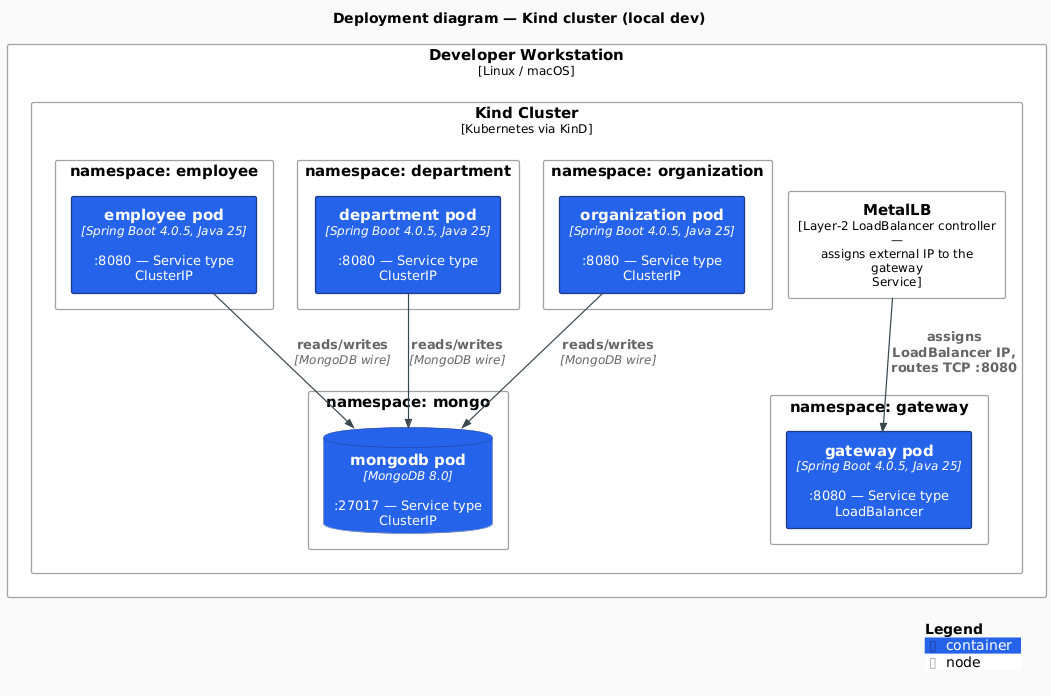
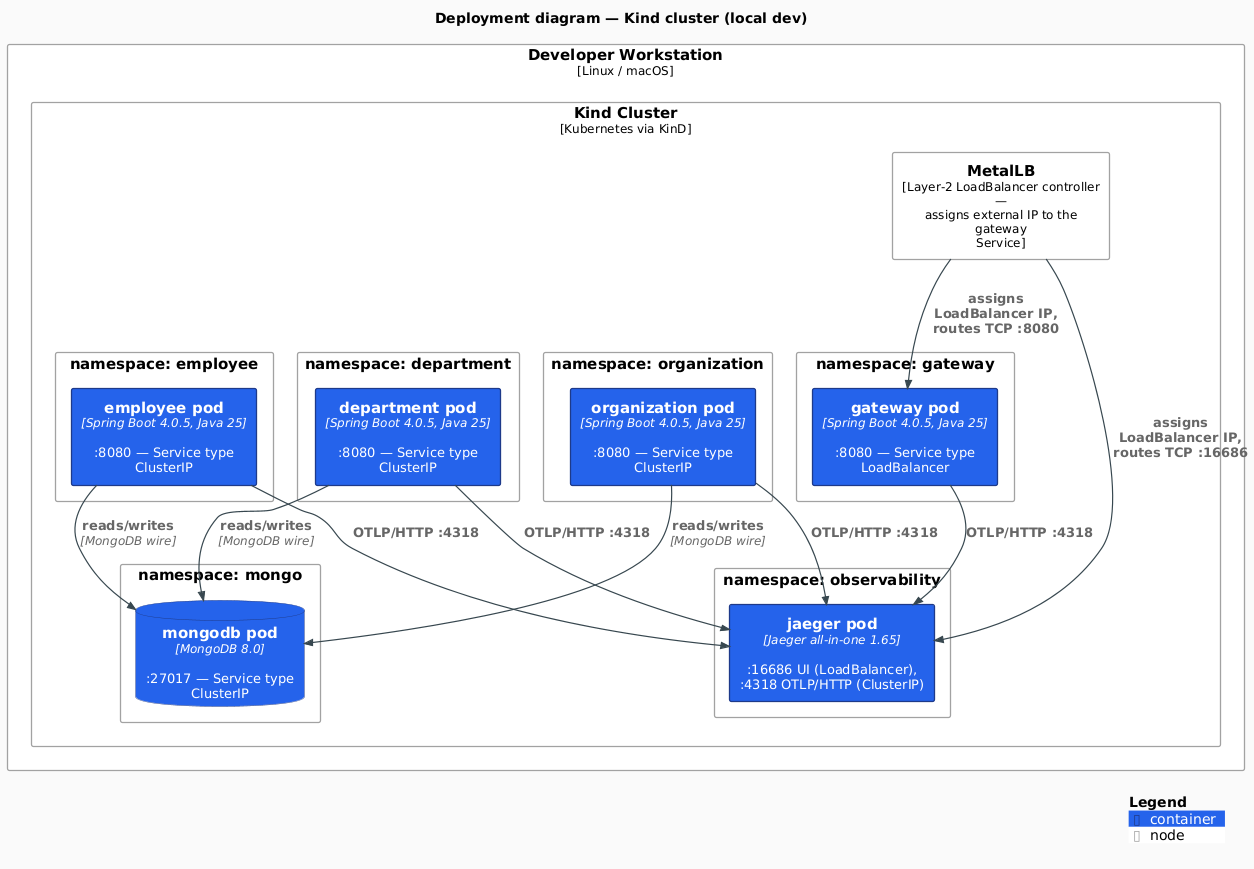
feat(tracing): wire OTLP exporter + in-cluster Jaeger all-in-one
Previously Micrometer Tracing was half-wired: spans generated,
traceparent propagated across RestClient @HttpExchange calls, but
no exporter shipped them anywhere. The README Tech Stack claim
"distributed trace propagation" technically held, but spans were
discarded in-process — trace IDs in MDC logs only, no viewer.

Changes:
  - Add io.opentelemetry:opentelemetry-exporter-otlp (no version
    pin; resolved via Spring Boot BOM to 1.55.0) to all four
    service poms + ignoredUnusedDeclaredDependency entries
  - Configure management.otlp.tracing.endpoint in all four
    ConfigMaps pointing at jaeger.observability.svc.cluster.local:4318
  - New k8s/jaeger-deployment.yaml: jaegertracing/all-in-one:1.65.0
    pinned, non-root UID 10001, COLLECTOR_OTLP_ENABLED, Service of
    type LoadBalancer exposing UI (16686) + OTLP HTTP (4318) +
    OTLP gRPC (4317)
  - Makefile kind-setup: add observability namespace to both
    namespace/serviceaccount loops, apply Jaeger manifest, wait
    for rollout; add jaeger-open target mirroring gateway-open

Architecture diagrams:
  - c4-container: add System_Ext(jaeger) + 4 OTLP Rels
  - c4-deployment: add ns_obs with jaeger_pod, MetalLB Rel on
    :16686 LoadBalancer, 4 OTLP Rels from service pods
  - Both PNGs regenerated via make diagrams

Docs:
  - CLAUDE.md Tech Stack bullet updated
  - README Tech table "Tracing" row, Architecture observability
    bullet, Quick Start + Deployment sections: jaeger-open listed
    alongside gateway-open
[…]

diff --git a/README.md b/README.md
@@ -22,7 +22,7 @@ Source: [`docs/diagrams/c4-container.puml`](docs/diagrams/c4-container.puml) —
 | Service Discovery | Spring Cloud Kubernetes | Uses the Kubernetes API as the registry — no Eureka/Consul to operate; `all-namespaces: true` enables cross-namespace discovery |
 | Database | MongoDB 8.0 (official `mongo` image, non-root UID 999, version-pinned) | Document model fits the Organization → Department → Employee aggregates without a migration toolchain; official image pinned for Renovate tracking |
 | API Docs | SpringDoc OpenAPI 3.0 / Swagger UI | Auto-generates OpenAPI 3 from `@RestController` annotations; gateway surfaces a unified Swagger UI across all services |
-| Tracing | Micrometer Tracing (OpenTelemetry bridge) | Tracer-agnostic abstraction; bridges to OTel collector without locking onto Zipkin or Brave directly |
+| Tracing | Micrometer Tracing → OpenTelemetry OTLP → Jaeger all-in-one | Spans propagate across all four services via W3C `traceparent`, export over OTLP/HTTP to in-cluster Jaeger (`observability` namespace); UI via `make jaeger-open` |
 | Testing | Testcontainers (integration), Kind e2e | Real MongoDB per test class (no mocking) + real cluster for e2e — catches schema drift and manifest bugs that in-process tests miss |
 | Containers | Eclipse Temurin 25, multi-arch (amd64+arm64) | Temurin is the reference OpenJDK build; multi-arch covers Apple Silicon dev + x86 servers from a single manifest |
 | Local K8s | Kind + MetalLB | Kind runs a real Kubernetes API in Docker — higher fidelity than Minikube; MetalLB gives LoadBalancer Services a reachable IP on localhost |
@@ -33,9 +33,10 @@ Source: [`docs/diagrams/c4-container.puml`](docs/diagrams/c4-container.puml) —
 
 ```bash
 make deps          # check required tools
-make kind-up       # full cluster lifecycle: Kind + MetalLB + MongoDB + 4 services
+make kind-up       # full cluster lifecycle: Kind + MetalLB + MongoDB + Jaeger + 4 services
 make e2e-test      # run end-to-end API tests
 make gateway-open  # open Swagger UI in browser
+make jaeger-open   # open Jaeger tracing UI in browser
 make kind-down     # tear everything down when finished
 ```
 
@@ -76,7 +77,7 @@ This architecture follows Cloud Native best practices and [The 12 Factor App](ht
 - **Inter-service communication** via RestClient (`@HttpExchange`)
 - **API documentation** exposed via Swagger UI
 - **Docker images** built with layered JARs using the Spring Boot plugin
-- **Observability** via Prometheus exporters
+- **Observability** via Prometheus exporters + distributed tracing (Micrometer → OTLP → Jaeger all-in-one)
 - **Static analysis** via google-java-format, Checkstyle, hadolint, gitleaks, actionlint, Trivy (filesystem + K8s config), and PlantUML diagram drift check — all wired into the `make static-check` composite gate
 
 ### Service Communication
@@ -129,13 +130,14 @@ See the full [Reference Architecture](docs/reference-architecture.md) for the De
 Local Kubernetes deployment is driven by the Makefile — `make kind-up` spins up the full stack in one command:
 
 ```bash
-make kind-up       # Kind cluster + MetalLB + MongoDB + 4 services (~2–3 min)
+make kind-up       # Kind cluster + MetalLB + MongoDB + Jaeger + 4 services (~2–3 min)
 make gateway-url   # print LoadBalancer IP assigned by MetalLB
 make gateway-open  # open Swagger UI in a browser
+make jaeger-open   # open Jaeger tracing UI in a browser
 make kind-down     # tear everything down
 ```
 
-Under the hood `kind-up` chains `kind-create` (cluster + MetalLB) → `kind-setup` (namespaces, RBAC, MongoDB) → `image-build` → `image-load` → `kind-deploy` (rollout all 4 services). See [Kind Cluster targets](#kind-cluster) for running each step in isolation during iterative development.
+Under the hood `kind-up` chains `kind-create` (cluster + MetalLB) → `kind-setup` (namespaces, RBAC, MongoDB, Jaeger) → `image-build` → `image-load` → `kind-deploy` (rollout all 4 services). See [Kind Cluster targets](#kind-cluster) for running each step in isolation during iterative development.
 
 Production deployment is out of scope for this reference — the manifests under [`k8s/`](k8s/) are tuned for a single-node local Kind cluster. See [`docs/reference-architecture.md`](docs/reference-architecture.md) for the annotated manifests and the rationale behind each ConfigMap / Secret / RBAC binding.
 

diff --git a/docs/reference-architecture.md b/docs/reference-architecture.md
@@ -499,18 +499,22 @@ management.metrics.enable.all: "true"
 
 Endpoints: `/actuator/metrics` and `/actuator/prometheus`.
 
-## Distributed Tracing with Micrometer
+## Distributed Tracing with Micrometer + Jaeger
 
 Micrometer Tracing (replacing Spring Cloud Sleuth) provides distributed trace
 context propagation across services. Trace IDs are automatically propagated
 via HTTP headers through RestClient and Spring MVC.
 
-Dependency (managed by Spring Boot BOM):
+Dependencies (managed by Spring Boot BOM):
 
 ```xml
 <dependency>
     <groupId>io.micrometer</groupId>
     <artifactId>micrometer-tracing-bridge-otel</artifactId>
+</dependency>
+<dependency>
+    <groupId>io.opentelemetry</groupId>
+    <artifactId>opentelemetry-exporter-otlp</artifactId>
 </dependency>
 ```
 
@@ -519,20 +523,22 @@ rather than the legacy Brave / Zipkin bridge. This is the industry-standard
 target for observability consolidation and works with any OTLP-compatible
 backend (Tempo, Jaeger, Honeycomb, Datadog, …).
 
-No tracing backend is currently wired up — spans are created in-process and
-discarded. To export them, add an OTLP exporter dependency and point it at a
-collector via env vars on each Deployment:
+Spans are exported over OTLP/HTTP to an in-cluster **Jaeger all-in-one**
+Deployment in the `observability` namespace. Each service ConfigMap sets:
 
 ```yaml
-env:
-  - name: MANAGEMENT_OTLP_TRACING_ENDPOINT
-    value: http://otel-collector.observability.svc.cluster.local:4318/v1/traces
-  - name: MANAGEMENT_TRACING_SAMPLING_PROBABILITY
-    value: "1.0"
+management.tracing.sampling.probability: "1.0"
+management.otlp.tracing.endpoint: "http://jaeger.observability.svc.cluster.local:4318/v1/traces"
 ```
 
-The env-var injection pattern mirrors the MongoDB configuration — see
-"Inject MongoDB Connection via Environment Variables" above.
+Jaeger exposes its UI via a MetalLB LoadBalancer on port 16686 — open it with
+`make jaeger-open`. The sampling rate is 100% because this is a local dev
+cluster; in production you would lower the probability (e.g. `"0.1"`) or
+configure tail-based sampling at a collector.
+
+To swap Jaeger for another OTLP backend (Tempo, Honeycomb, Datadog), change
+only the `management.otlp.tracing.endpoint` value in each ConfigMap — no code
+or dependency changes are required.
 
 ## Integration Testing with Testcontainers
 

diff --git a/CLAUDE.md b/CLAUDE.md
@@ -64,7 +64,7 @@ make kind-undeploy # Remove services but keep the cluster running
 
 - Java 25, Spring Boot 4.0, Spring Cloud Kubernetes (2025.1)
 - RestClient with @HttpExchange (inter-service communication)
-- Micrometer Tracing (distributed trace propagation)
+- Micrometer Tracing + OpenTelemetry OTLP exporter → Jaeger all-in-one (in-cluster, `observability` namespace; UI exposed via MetalLB on :16686, `make jaeger-open`)
 - Maven multi-module build
 - Docker (multi-arch via buildx)
 - Kubernetes (Kind + MetalLB for local dev)
